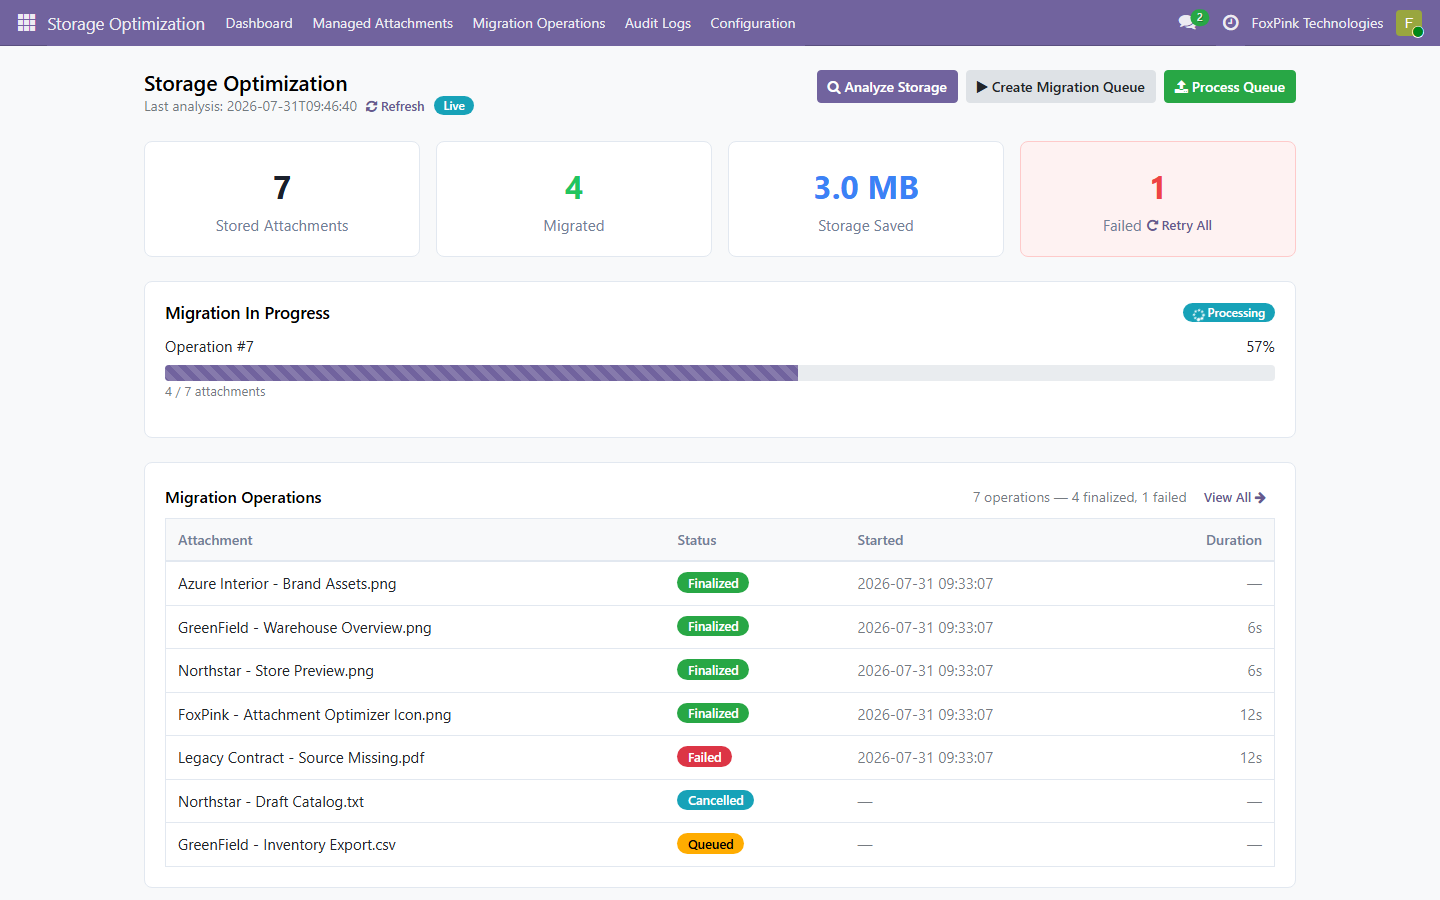
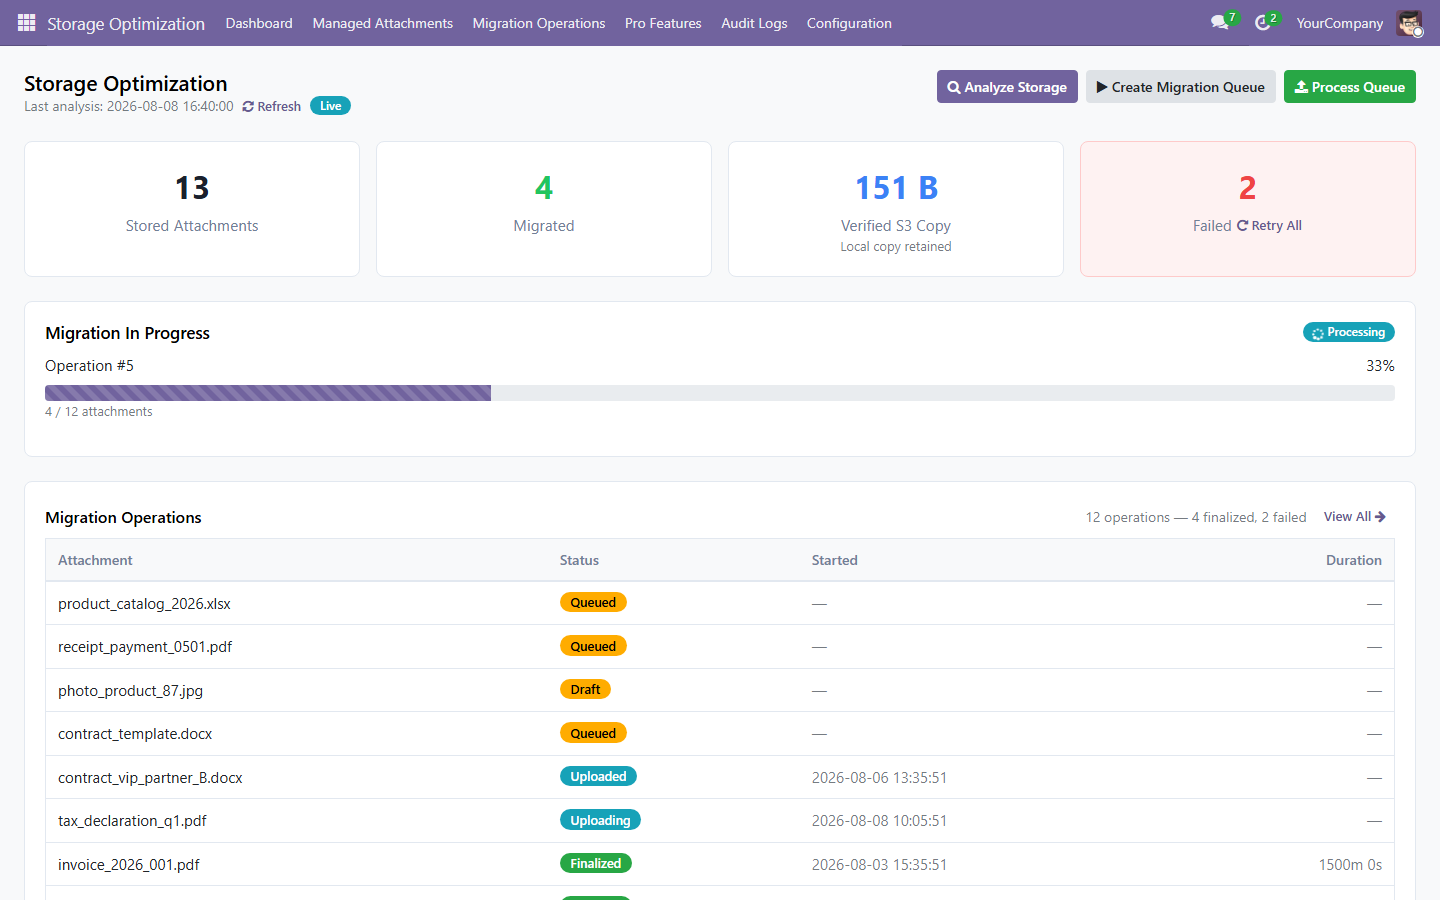
Harden full-width dashboard and refresh screenshot

diff --git a/attachment_optimizer/static/src/components/dashboard/dashboard.scss b/attachment_optimizer/static/src/components/dashboard/dashboard.scss
@@ -7,6 +7,12 @@
     position: relative;
 }
 
+html .o_web_client .o_action_manager .o_dashboard {
+    width: 100%;
+    max-width: none;
+    margin: 0;
+}
+
 html .o_web_client > .o_action_manager {
     overflow-y: auto;
     overflow-x: hidden;
@@ -77,7 +83,7 @@ html .o_web_client > .o_action_manager {
 /* KPI Cards */
 .o_kpi_row {
     display: grid;
-    grid-template-columns: repeat(4, 1fr);
+    grid-template-columns: repeat(4, minmax(0, 1fr));
     gap: 16px;
     margin-bottom: 24px;
 }
@@ -412,4 +418,20 @@ html .o_web_client > .o_action_manager {
 @media (max-width: 600px) {
     .o_pro_upgrade_banner { align-items: stretch; flex-direction: column; }
     .o_pro_upgrade_banner .btn { min-height: 44px; }
+}
+
+@media (max-width: 1100px) {
+    .o_kpi_row { grid-template-columns: repeat(2, minmax(0, 1fr)); }
+}
+
+@media (max-width: 768px) {
+    .o_dashboard { padding: 16px; }
+    .o_dashboard_header { flex-direction: column; gap: 16px; }
+    .o_dashboard_actions { width: 100%; }
+    .o_dashboard_actions .btn { flex: 1; min-height: 44px; }
+}
+
+@media (max-width: 480px) {
+    .o_kpi_row { grid-template-columns: 1fr; }
+    .o_dashboard_actions { flex-direction: column; }
 }

diff --git a/attachment_optimizer/static/description/index.html b/attachment_optimizer/static/description/index.html
@@ -271,7 +271,7 @@
                 Licensed under LGPL-3 &mdash; free to use, modify and distribute.
             </p>
             <div style="display:inline-block; border:2px solid #4f46e5; color:#4f46e5; font-weight:700; font-size:13px; padding:10px 28px; border-radius:8px; letter-spacing:0.2px;">github.com/FoxPinkHQ/attachment-optimizer</div>
-            <p style="font-size:11px; color:#94a3b8; margin:20px 0 0;">Version 19.0.1.0.7 &middot; Built and maintained by FoxPink</p>
+            <p style="font-size:11px; color:#94a3b8; margin:20px 0 0;">Version 19.0.1.0.8 &middot; Built and maintained by FoxPink</p>
         </div>
 
     </div>

diff --git a/attachment_optimizer/__manifest__.py b/attachment_optimizer/__manifest__.py
@@ -1,6 +1,6 @@
 {
     "name": "Attachment Optimizer",
-    "version": "19.0.1.0.7",
+    "version": "19.0.1.0.8",
     "category": "Storage",
     "summary": "Safely replicate and serve Odoo attachments from S3-compatible storage.",
     "description": """

diff --git a/README.md b/README.md
@@ -4,7 +4,7 @@
 
 ![Attachment Optimizer](attachment_optimizer/static/description/preview.png)
 
-**Version:** 19.0.1.0.7 -- **License:** LGPL-3 -- **Publisher:** FoxPink -- Maintained for **Odoo 14.0-19.0** (one validated build per series)
+**Version:** 19.0.1.0.8 -- **License:** LGPL-3 -- **Publisher:** FoxPink -- Maintained for **Odoo 14.0-19.0** (one validated build per series)
 
 ---
 
